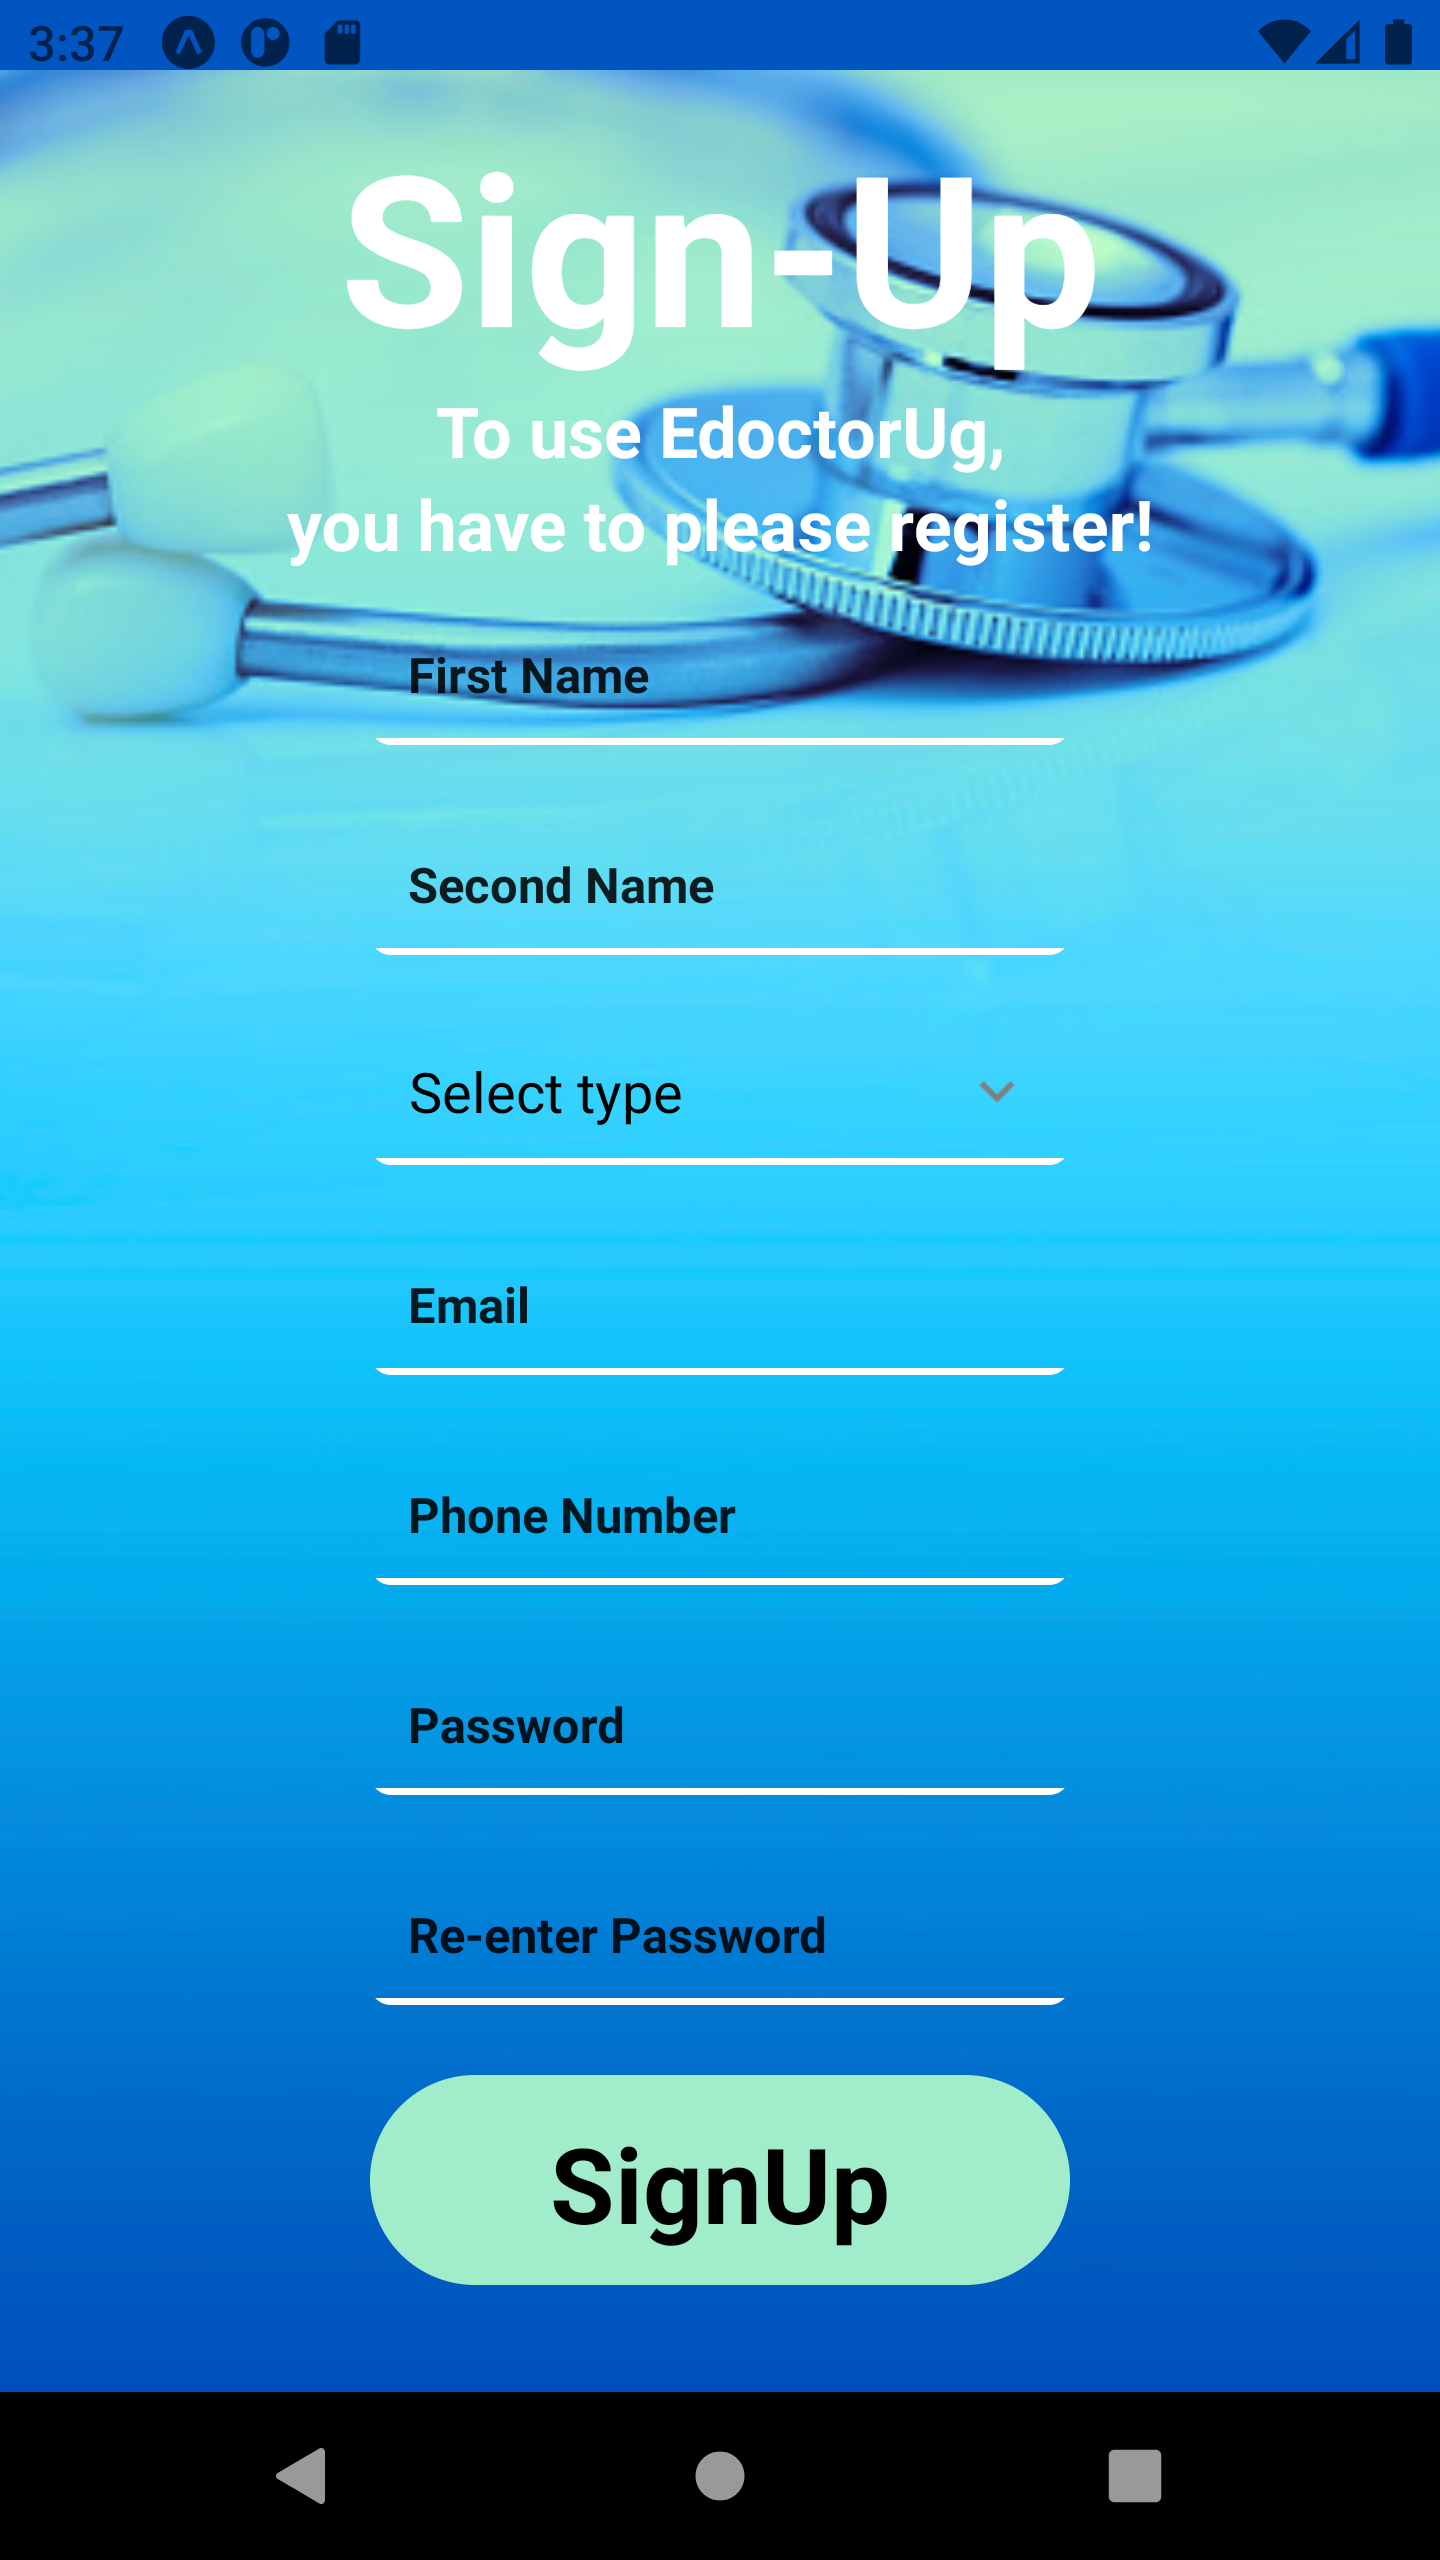
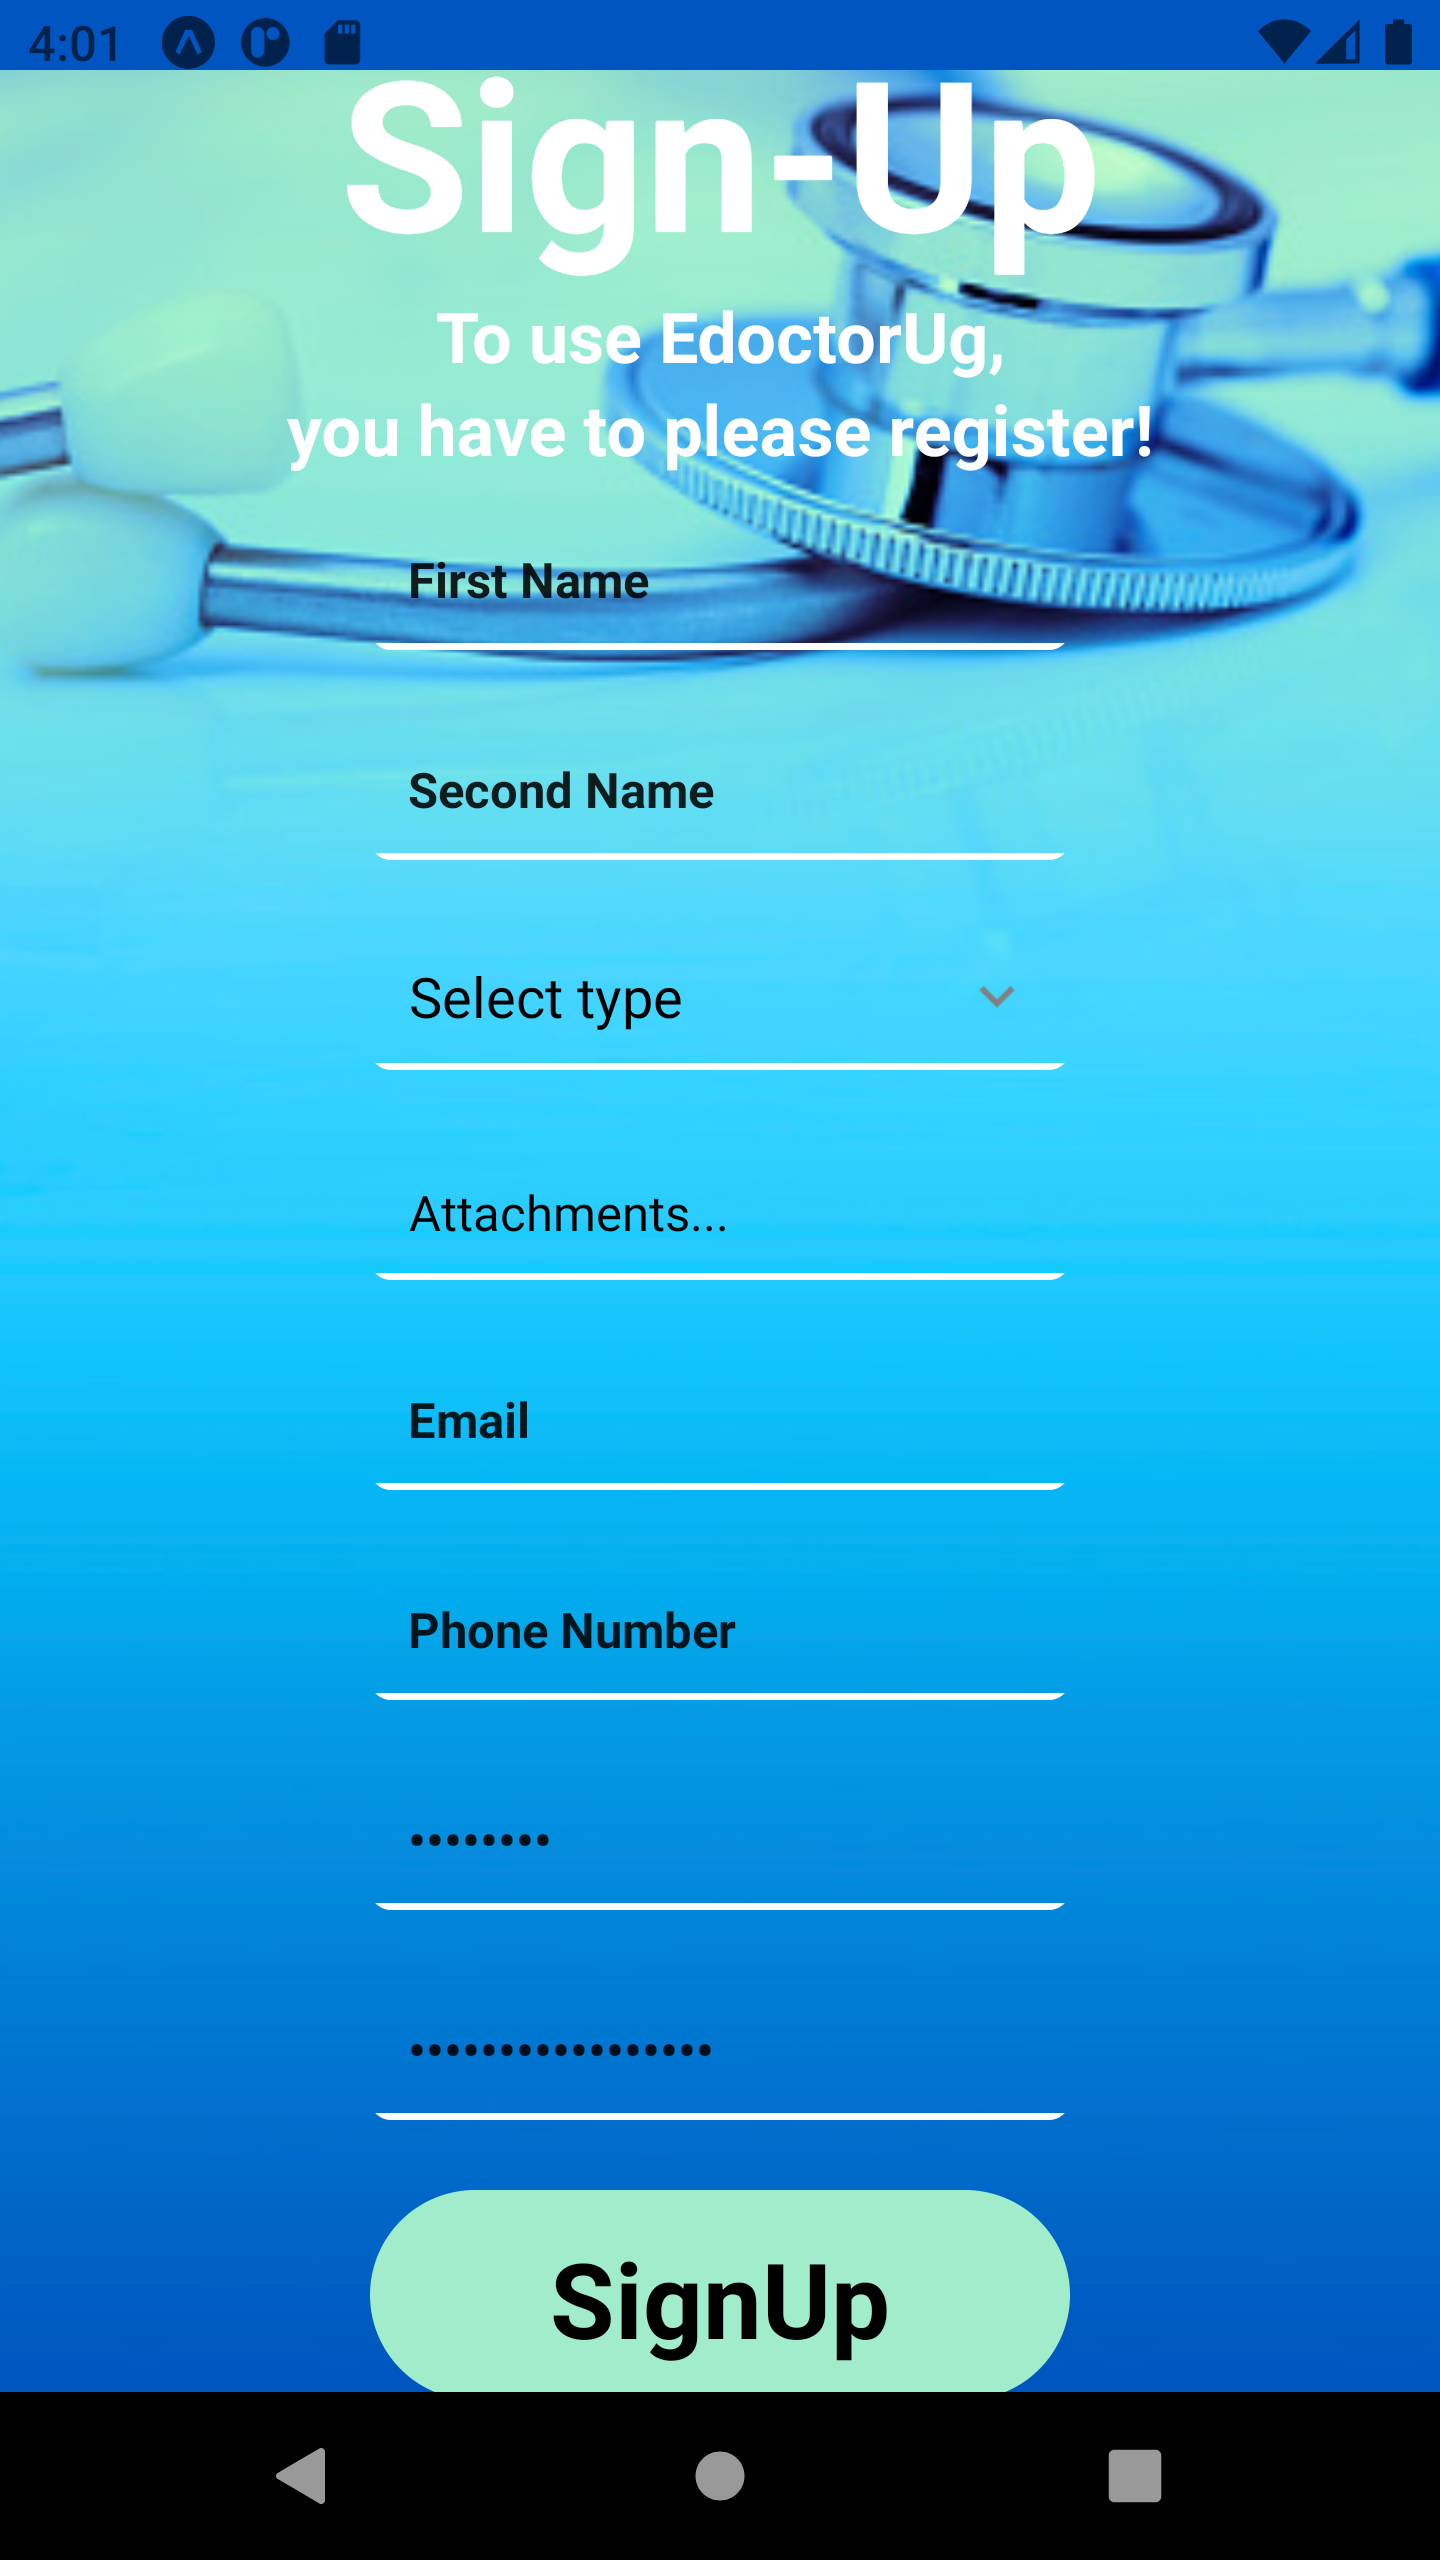
# Please enter the commit message for your changes. Lines starting # with '#' will be ignored, and an empty message aborts the commit. # # On branch attachment # Your branch is up to date with 'origin/attachment'. # # Changes to be committed: #	modified:   App.js #	modified:   android/app/src/main/r

Changed region(s): [[0.0, 0.0, 1.0, 0.9375], [0.0, 0.0, 0.1562, 0.0625], [0.6562, 0.4062, 0.7188, 0.4375]]

diff --git a/App.js b/App.js
@@ -10,10 +10,11 @@ import {
   TouchableOpacity,
   Platform,
   Button,
+  ScrollView,
 } from "react-native";
 
 import { Dropdown } from "react-native-element-dropdown";
-import DocumentPicker, { types } from "react-native-document-picker";
+import * as DocumentPicker from 'expo-document-picker';
 
 const data = [
   { label: "Patiient", value: "patient" },
@@ -33,32 +34,29 @@ export default function App() {
 
   const handleSign = () => alert("Registered!");
 
+  const _pickDocument = async () => {
+
+    let result = await DocumentPicker.getDocumentAsync({});
+
+    alert(result.uri);
+
+    console.log(result);
+
+  }
+
   const [value, setValue] = React.useState(null);
   const [isFocus, setIsFocus] = React.useState(false);
-
-  const [fileResponse, setFileResponse] = useState([]);
-
-  const handleDocumentSelection = useCallback(async () => {
-    try {
-      const response = await DocumentPicker.pickMultiple({
-        presentationStyle: "fullScreen",
-        type: [types.pdf],
-        allowMultiSelection: true,
-      });
-      setFileResponse(response);
-    } catch (err) {
-      console.log("There is an error\n");
-      console.warn(err);
-    }
-  }, []);
 
   return (
     <SafeAreaView
       style={{
         paddingTop: Platform.OS === "android" ? 20 : 0,
         backgroundColor: "#0055C1",
+        flex: 1,
       }}
     >
+      <ScrollView>
+
       <ImageBackground
         source={require("./app/assets/edocbg.jpg")}
         resizeMode="cover"
@@ -127,23 +125,9 @@ export default function App() {
               }}
             />
           </View>
-          {fileResponse.map((file, index) => (
-            <Text
-              key={index.toString()}
-              style={styles.uri}
-              numberOfLines={1}
-              ellipsizeMode={"middle"}
-            >
-              {file?.uri}
-            </Text>
-          ))}
-          <Button
-            style={{
-              with: 300
-            }}
-            title="Select Certificate"
-            onPress={handleDocumentSelection}
-          />
+          <TouchableOpacity style={[styles.input]} onPress={_pickDocument}>
+            <Text>Attachments...</Text>
+          </TouchableOpacity>
           <TextInput
             style={[styles.input]}
             onChangeText={onChangeEmail}
@@ -176,6 +160,8 @@ export default function App() {
           </TouchableOpacity>
         </View>
       </ImageBackground>
+      </ScrollView>
+      
     </SafeAreaView>
   );
 }
